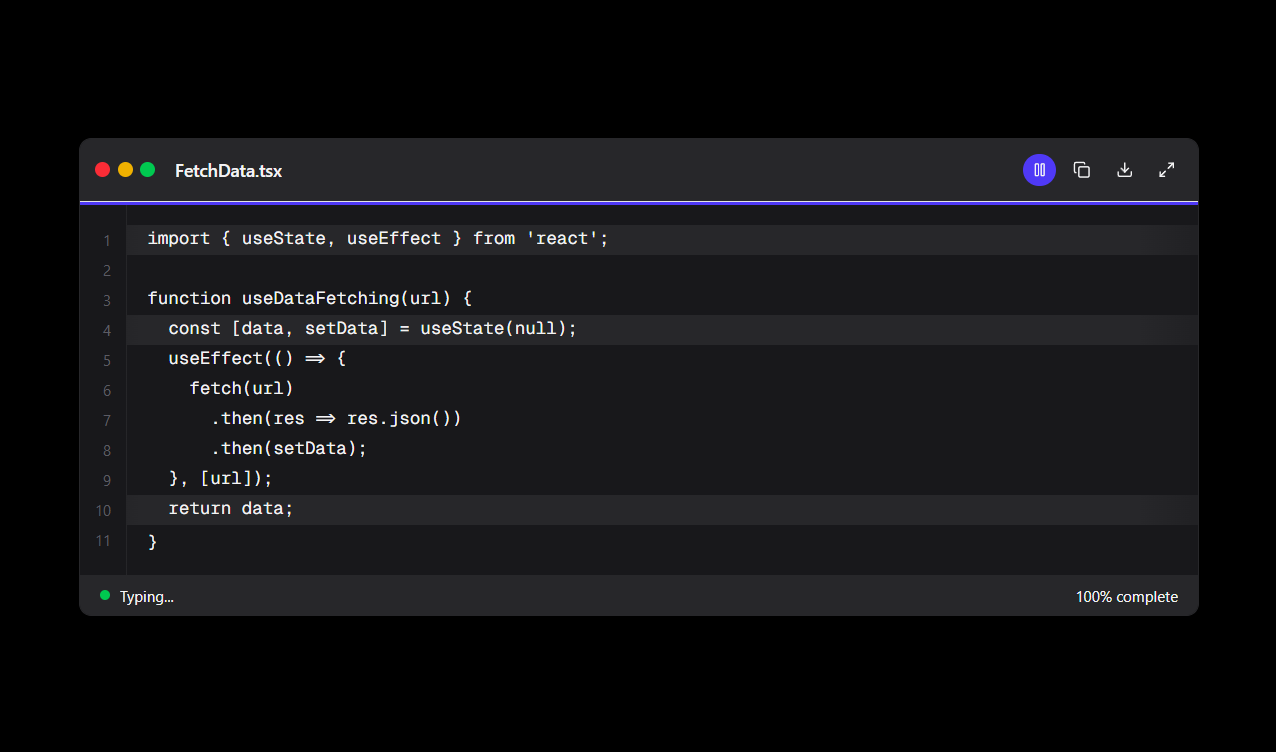
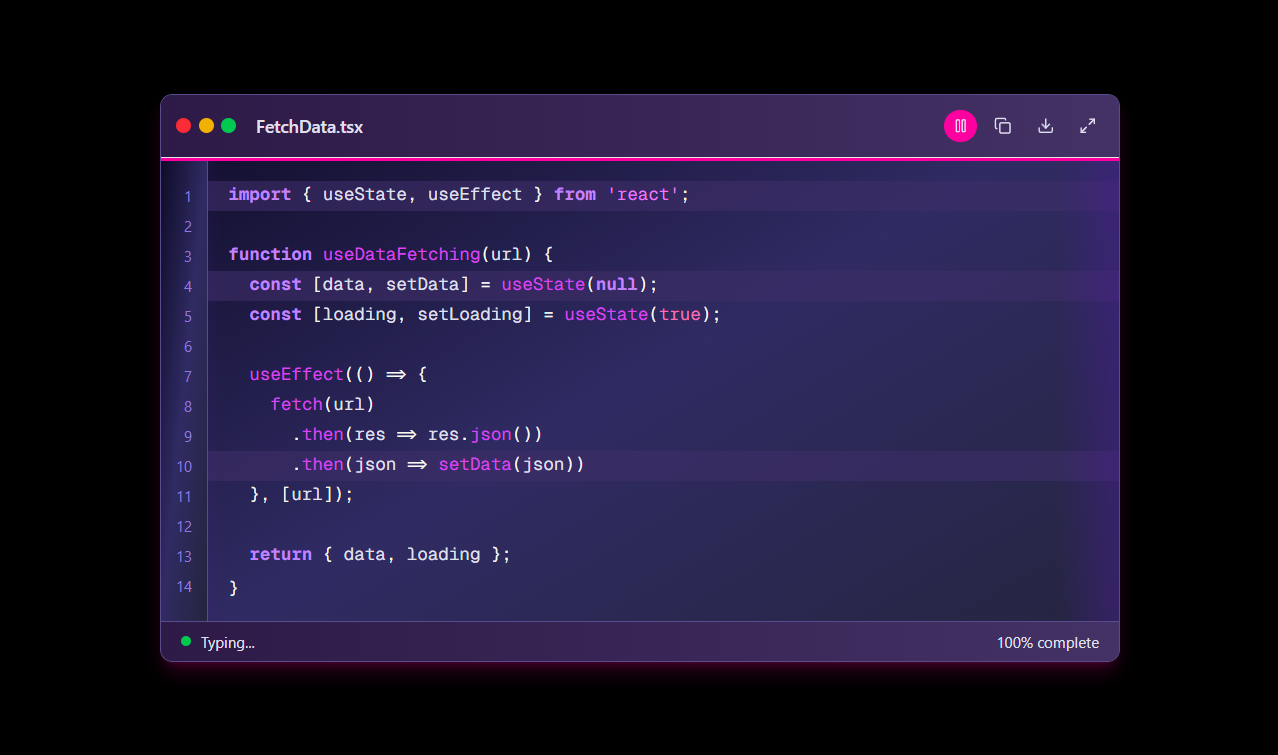
updated animated code block now powered by prismjs for syntax highlighting

diff --git a/registry/example/animated-code-block-demo.tsx b/registry/example/animated-code-block-demo.tsx
@@ -22,7 +22,7 @@ function useDataFetching(url) {
       <AnimatedCodeBlock
         code={examples[0].code}
         theme="dark"
-        title="FetchData.tsx"
+        title="FetchData.jsx"
         typingSpeed={50}
         showLineNumbers={true}
         autoPlay={true}
